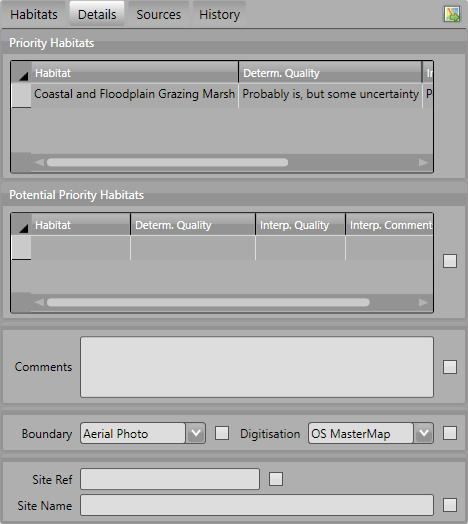
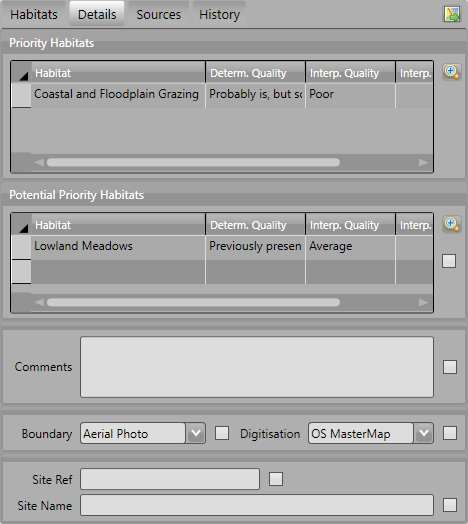
Draft updates for v3.1.1

Changed region(s): [[0.0, 0.3969, 0.9872, 0.6107], [0.4188, 0.1221, 0.9872, 0.2137], [0.5983, 0.2748, 0.7479, 0.3359]]

diff --git a/conf.py b/conf.py
@@ -57,9 +57,9 @@ copyright = u'2011 HBIC, 2013-14, 2016 TVERC, 2014-15 SxBRC, 2019 LaSER'
 # built documents.
 #
 # The short X.Y version.
-version = '3.0'
+version = '3.1'
 # The full version, including alpha/beta/rc tags.
-release = '3.0.0'
+release = '3.1.1'
 
 # The language for content autogenerated by Sphinx. Refer to documentation
 # for a list of supported languages.

diff --git a/appendix/appendix.rst b/appendix/appendix.rst
@@ -3,12 +3,196 @@ Appendix
 ********
 
 .. index::
+    single: Change Log
+
+.. _change_log:
+
+Change Log
+==========
+
+3.1.1
+    Fixes
+        * Fix084 - No longer find first habitat type on change in IHS habitat.
+
+3.1.0
+    Additions
+        * CR54 (Show/edit priority habitats) - New pop-out windows to more clearly display/edit priority and potential priority habitats.
+        * CR52 (Multiple priority habitat classifications) - Major enhancement to enable multiple priority and potential priority habitat classifications to be supported.
+        * CR56 (Translation to IHS non-habitat codes) - Major enhancement to validate that any mandatory or recommended multiplex codes relating to the current habitat type have been selected.
+
+3.0.2
+    Fixes
+        * Fix081 - Enable a subset of features for each selected INCID to be exported.
+        * Fix083 - Ensure predicted count of toids/fragment selected works with any filter query.
+          
+3.0.1
+    Fixes
+        * Fix082 - Check if any OSMM updates before enabling review and bulk update functionality.
+
+3.0.0
+    Additions
+        * Fix068 - New command in the main interface to enable auto zoom when selecting features for an incid in GIS.
+        * Fix069 - New command in the main interface to enable auto select of features in GIS when moving to a new incid.
+        * Fix071 - A user option to set the minimum zoom scale for when zooming to selected features in GIS.
+        * Fix072 - A simple query filter window to search for a single INCID.
+        * Fix073 - New command in the main interface to reset the window dimensions to their default values (in case a user has resized the window manually).
+        * Fix076 - A user option to hide the group headers in main interface to reduce window height on small monitors.
+
+    Changes
+        * CR49 (Process bulk OSMM Updates) - Major enhancement to display and process and proposed OSMM updates.
+        * Fix070 - Improvements to 'zoom to selected features' functionality to only zoom if the selected features don't already appear within the current map window extent.
+        * Fix074 - Save the option to keep the main tool interface on top of other windows (previously this would have to be set each time the tool was started).
+        * Fix075 - Ensure than filtered records are always displayed in INCID order.
+        * Fix078 - Major overhaul/improvements to the bulk update functionality including a new interface before applying update to confirm how to handle existing multiplex codes, sources and priority habitats.
+        * Fix079 - Updated 'About' window layout including links to online user and technical guides.
+
+    Fixes
+        * KI116 (Cancelled attribute updates) - Fixes bug when cancelled updates to a subset of INCID features were still applied when moving to another INCID.
+        * KI117 (Bulk update errors) - Not specifically fixed but unable to reproduce errors following major overhaul/improvements (see Fix078).
+        * Fix077 - Correctly trap the error if the database requires a later version of the started application (previously this error went unreported before the application closed).
+        * Fix080 - Fix bug where changes to text fields in user options were not being saved when <Enter> key was pressed to save changes.
+
+2.4.3
+    Fixes
+        * Fix067 - Select features in the active HLU layer directly (rather than via a selection set) to avoid problems during export later. This relates to ArcGIS installations only and only affects queries performed using the HLU tool that select a large number of features.
+
+2.4.2
+    Changes
+        * Fix064 - Perform exports outside of edit sessions (in ArcGIS) to improve performance and reduce the memory usage when changes are saved at the end of the edit session.
+        * Fix065 - Prompt the user for the export GIS layer name before starting export (rather than only once the attributes have been saved to a temporary database).
+        * Fix066 - Improve the performance when exporting the attributes to a temporary database.
+
+    Fixes
+        * Fix063 - Apply the user option database connection timeout value rather than the fixed value of 15 seconds.
+
+2.4.1
+    Changes
+        * Fix061 - Enable the tool to work with all 32bit versions of MapInfo (including MapInfo 15.0).
+        * Fix062 - Enable tool to run in a multi-user virtual environment without needing to close all running instances of MapInfo first.
+
+
+2.4.0
+    Additions
+        * CR44 (Editable Legacy Habitat field) - Make the legacy habitat field editable in the user interface with a drop-down menu of available values from the new 'lut_legacy_habitat' table.
+        * Fix056 - Add a new option 'Show NVC Codes' to enable related NVC Codes to be shown or hidden in the user interface 'Habitats' tab.
+        * Fix058 - Display the current database connection details in 'About' dialog.
+
+    Changes
+        * Fix059 - Do not display the map window number after the current layer name if there is only one map window in the GIS application.
+        * Fix060 - Disable the switch GIS layer button and menu item if there is only one valid layer in the current GIS document/workspace.
+
+    Fixes
+        * Fix057 - Adjust the user interface window height correctly when showing/hiding the optional areas (NVC Codes & Reason/Process fields).
+
+2.3.3
+    Fixes
+        * Fix052 - Ensure 'Get Map Selection' works in MapInfo when the selection is based on joining two or more tables.
+        * Fix053 - Check if all selected features have unique keys in the active HLU layer to avoid any potential data integrity problems caused by splitting/merging when a physical split has not been completed.
+        * Fix054 - Improvement to error reporting during the export process.
+        * Fix055 - Enable connection via OLEDB to Access 2007 (.accdb) databases using Microsoft Access Database Engine (ACE) driver.
+
+2.3.2
+    Fixes
+        * CR43 (Sort multiple fields in exports) - Fix an error when exports fail if the selected format includes the **source\_id** field from the **incid_sources** table with a *field\_format* of 'Lookup' or Both'.
+
+2.3.1
+    Additions
+        * CR43 (Sort multiple fields in exports) - Sort all records from incid-related 'child' tables so that multiple fields will always appear in the same order in exported layers.
+
+    Changes
+        * Fix051 - Improve performance when filtering large number of incids.
+
+2.3.0
+    Additions
+        * CR14 (Exporting IHS codes or descriptions) - Enable users to specify if individual fields should be exported with descriptions instead of codes by specifying a **field\_format** value of 'Code' or 'Lookup' in the exports_fields table.
+        * CR15 (Concatenate IHS codes and descriptions) - Enable users to specify if individual fields should be exported with **both** codes and descriptions concatenated together by specifying a **field\_format** value of 'Both' in the exports_fields table.
+        * CR16 (Adding exported features) - Ask users if they want to add the new GIS layer to the active map once the export has completed.
+        * CR17 (Exporting date fields) - Enable **incid\_source** dates to be converted into a specific text date format by specifying a **field\_format** value (e.g. 'dd/MM/yyyy') in the exports_fields table.
+        * Fix034 - Enable auto-increment fields to be included in export layers by specifying a **field\_type** of 99 (AutoNumber) in the exports_fields table.
+        * Fix037 - Move the geometry length and area fields to the **end** of the list of fields for all export layers.
+        * Fix038 - Display the export progress in the ArcGIS status bar correctly during an export.
+        * Fix040 - Enable MapInfo users to set a default export folder path in the user options.
+        * Fix042 - Warn users when an export may take some time because it is very large (i.e. exceeds 5000 incids).
+        * Fix043 - Enable new 'dummy' fields to be included in export formats by specifying **table\_name** and **column\_name** values of '<none>' in the exports_fields table.
+        * Fix044 - Enable maximum text field lengths to be specified in export formats by specifying a **field\_length** value in the exports_fields table.
+        * Fix045 - Interweave multiple record fields from the same database table together (e.g. s1name, s1class, s1type, s2name, s2class, s2type, s3name, s3class, s3type).
+        * Fix048 - Enable fields to be converted to a different data type in an export by specifying a **field\_type** in the exports_fields table.
+        * Fix049 - Enable the multi-record counter to be inserted 'within' the export format **field\_name** (e.g 'source1name' by specifying 'source<no>name').
+        * Fix050 - Warn ArcGIS users if export format **field\_names** may be truncated or renamed when exporting to shapefiles (which only support 10 character names).
+
+    Changes
+        * CR13 (Export features performance) - Improvements to 'Export' performance for small numbers of incids/features by saving selected features to a temporary GIS layer before joining to the database attributes.
+
+    Fixes
+        * Fix033 - Ignore case during export when comparing field names in the feature layer and database attributes to avoid duplicate fields in the export layer.
+        * Fix035 - When 'Selected Only' checked only export **selected** features in GIS not **all** features for selected the incids.
+        * Fix036 - Clear all missing/empty fields when exporting features with ArcGIS to avoid values from preceding records from being exported.
+        * Fix039 - Check export layers won't exceed the MapInfo maximum record length (4000 bytes) or maximum .tab file size (2 Gb).
+        * Fix041 - Check the selected export format contains the incid column to avoid errors trying to join the attribute data to the GIS layer.
+        * Fix046 - Don't repeat details from the same *incid\_source** record in multiple source export fields when there are less than 3 source records.
+        * Fix047 - Break the process of exporting database attributes into chunks to avoid errors with excessive SQL query lengths.
+
+2.2.0
+    Additions
+        * CR5 (Select by Attribute Interface) - Added a new 'Advanced Query Builder' interface which allows users to build, verify, save and load free-form SQL queries. Check 'User Advanced Query Builder' in the options settings to use the new interface.
+        * Fix032 - Added a new button/menu 'Select all Filtered INCIDs on Map' to enable users to select **all** of the incids in the active filter on map, not just the current incid.
+
+    Changes
+        * CR12 (Select by attributes performance) - Improvement to 'Select by Attribute' performance (now known as 'Filter by Attributes'). Where possible execute more complex SQL queries (up to a GIS-specific maximum SQL string length) instead of using GIS table joins.
+
+2.1.1
+    Additions
+    * KI15 (User Interface style) - Enable the user to select any of three user interface styles (Original, Dark Grey & Light Grey).
+    * CR37 (Site reference& site name) - Add the site reference field to the user interface to enable the user to view/edit the value relating to the current INCID.
+    * CR39 (Split and merge complete messages) - Enable users to specify in the options if a pop-up message should be displayed following any of the split or merge operations.
+
+    Removals
+        * CR27 (Select current INCID) - Remove the 'Select by INCID' menu item and toolbar button as it serves no known purpose.
+
+    Changes
+        * CR7 (Split/merge options) - Display all four split and merge options on the menu bar and button toolbar and enable only the available options for the current selection.
+        * CR11 (History tab) - Change the field names on the history tab to make it clearer the history refers to previous or modified value, not the current values).
+        * CR20 (Window size/design) - Adjust the layout of the window to reduce the minimum height so support smaller screen resolutions.
+        * CR25 (Reason and process fields) - Do not display the reason and process fields sub-section of the user interface when the tool is in read-only mode.
+        * CR28 (INCID display field) - Enable the user to select the text in the INCID field and copy the value to the clipboard.
+        * CR38 (Logical merge prompt window) - Widen the default 'Select INCID to keep' window width so that more attributes initially appear.
+
+    Fixes
+        * Fix031 - Fix crash by checking if the value of any 'editable' combobox is NULL before finding the text in the drop-down list.
+        * CR2 (Apply button) - Changes to the 'IHS Habitat' field now trigger the 'Apply' button to be enabled.  The automatic selection of a source 'Habitat Type' when a 'Habitat Class' with only one possible Habitat Type is selected, disabled by CR2 in release v1.0.9, has now been re-instated.
+
+2.1.0
+    Additions
+        * CR42 (Database upgrade kit) - A new standalone program 'HluDbUpdater.exe' has been created which runs sql scripts to apply database structure and/or content changes to any target HLU Tool database.  See [HLU Database Updater](https://github.com/HabitatFramework/HLUTool-DatabaseUpdater/releases) for the latest version of the program.
+
+    Removals
+        * CR29 (Habitat classification and code conversion to IHS) - the NVC Codes field has been removed temporarily as there is currently no space to display it. It can be reinstated in a future release if required when space allows.
+
+    Changes
+        * CR30 (Database validation on start-up) - Update database validation to reflect updates to the database structure and also check that the tool is not already running on the same machine.
+        * CR29 (Habitat classification and code conversion to IHS) - Replace the IHS Category and NVC Category drop-down lists with new Habitat Classification and Habitat Type drop-down lists to provide users with ability to translate different input sources to IHS.
+        * CR32 (Local flags) - Enable users to flag habitat classifications and habitat types as 'local' to indicate if they should appear in the relevant drop-down lists in the user interface.
+
+    Fixes
+        * Fix025 - Add a default sort order when loading all lookup tables to act as a backup sort order if the sort_order columns are zero (or all the same values).
+        * Fix026 - Hide the MapInfo pop-up progress bar when updating tables and merging features.
+        * Fix027 - Force the Incid table to be refilled after any split/merge processing to ensure that any updates updates immediately following don't fail.
+        * Fix028 - Only update DateTime fields to whole seconds (ignoring fractions of a second) to avoid rounding differences when comparing fields during updates.
+        * Fix029 - Ignore case when comparing column names in MapInfo to ensure all features are re-selected following a physical split.
+        * Fix030 - Include time with date when updating DateTime fields in databases via ODBC connection type.
+
+
+.. raw:: latex
+
+    \newpage
+
+.. index::
 	single: Dos and Don'ts
 
 .. _dos_and_donts:
 
 DOs and DON'Ts
-================
+==============
 
 It is essential that the following guidelines are followed to ensure that the tool runs smoothly:
 
@@ -70,6 +254,12 @@ What Happened?
 
 GNU Free Documentation License
 ==============================
+
+Permission is granted to copy, distribute and/or modify this document under 
+the terms of the GNU Free Documentation License, Version 1.3 or any later
+version published by the Free Software Foundation; with no Invariant Sections,
+no Front-Cover Texts and no Back-Cover Texts.  A copy of the license is
+included in the Appendix section.
 
 .. raw:: latex
 

diff --git a/interface/interface.rst b/interface/interface.rst
@@ -2,6 +2,10 @@
 	:height: 16px
 	:width: 16px
 
+.. |zoomtable| image:: ../icons/ZoomTable.png
+	:height: 16px
+	:width: 16px
+
 
 .. index::
 	single: Interfaces
@@ -199,8 +203,12 @@ Click on :guilabel:`Details` to display the Details tab as shown in the figure :
 Priority Habitats
 	Automatically added based upon the Habitat and multiplex codes selected on the :ref:`habitats_tab`. For new priority habitats, 'Determination Quality' and 'Interpretation Quality' must be entered.
 
+	Click |zoomtable| to open the Priority Habitats window.
+
 Potential Priority Habitats
 	Allows users to define other priority habitats that may also be present in the future given appropriate management or restoration. An INCID may have one or more potential priority habitats even if no priority habitats are present.
+
+	Click |zoomtable| to open the Potential Priority Habitats window.
 
 General Comments
 	A free-text field which allows users to enter any additional comments up to 254 characters.
@@ -349,6 +357,56 @@ Errors
 
 .. note::
 	Whilst **any** fields are in error the :guilabel:`Apply` button will not appear.
+
+
+.. raw:: latex
+
+	\newpage
+
+.. index::
+	single: Main Window; Priority Habitats
+	single: Windows; Priority Habitats Window
+
+.. _priority_habitats_window:
+
+Priority Habitats Window
+========================
+
+Allows users to edit any priority habitats as shown in the figure :ref:`figUIPHW`.
+
+Click |zoomtable| adjacent to the Priority Habitats table on the Details tab to open the window.
+
+.. _figUIPHW:
+
+.. figure:: figures/UserInterfacePriorityHabitatsWindow.png
+	:align: center
+
+	Priority Habitats Window
+
+
+.. raw:: latex
+
+	\newpage
+
+.. index::
+	single: Main Window; Potential Priority Habitats
+	single: Windows; Potential Priority Habitats Window
+
+.. _potential_priority_habitats_window:
+
+Potential Priority Habitats Window
+==================================
+
+Allows users to add, edit or delete any potential priority habitats as shown in the figure :ref:`figUIPPHW`.
+
+Click |zoomtable| adjacent to the Potential Priority Habitats table on the Details tab to open the window.
+
+.. _figUIPPHW:
+
+.. figure:: figures/UserInterfacePotentialPriorityHabitatsWindow.png
+	:align: center
+
+	PotentialPriority Habitats Window
 
 
 .. raw:: latex
@@ -970,10 +1028,6 @@ Query Builder Window
 --------------------
 
 Allows users to filter the database records using the query builder shown in the figure :ref:`figQB`.
-
-.. |filterbyattr| image:: ../icons/FilterByAttributes.png
-	:height: 16px
-	:width: 16px
 
 Click |filterbyattr| or :guilabel:`Select... --> Filter by Attributes...` to open the window.
 

diff --git a/menus/menus.rst b/menus/menus.rst
@@ -103,6 +103,7 @@ File Menu
 
 	Main Window - File Menu
 
+
 Export...
 ---------
 
@@ -135,6 +136,7 @@ Edit Menu
 	:align: left
 
 	Main Window - Edit Menu
+
 
 .. note::
 	When the tool is launched, the database tool is read-only by default as indicated. To enable edit mode, the user details must be configured in the database (see 'Lookup Tables' in the HLU Tool Technical Guide at `readthedocs.org/projects/hlutool-technicalguide <https://readthedocs.org/projects/hlutool-technicalguide/>`_ for details) and the spatial data must be editable in the GIS application.
@@ -207,6 +209,7 @@ View Menu
 
 	Main Window - View Menu
 
+
 |winsidebyside| Windows Side By Side
 ------------------------------------
 
@@ -264,6 +267,7 @@ Select Menu
 	:align: left
 
 	Main Window - Select Menu
+
 
 |filterbyattr| Filter by Attributes...
 --------------------------------------
@@ -339,6 +343,7 @@ Split/Merge Menu
 
 	Main Window - Split/Merge Menu
 
+
 .. note::
 	All options in this menu are disabled until the database records have been filtered and a process and reason has been selected from the 'Process' and 'Reason' drop-down lists in the INCID section on the main window. For details on the INCID section see :ref:`incid_section`.
 
@@ -393,6 +398,7 @@ Tools Menu
 	:align: left
 
 	Main Window - Tools Menu
+
 
 |options| Options...
 --------------------
